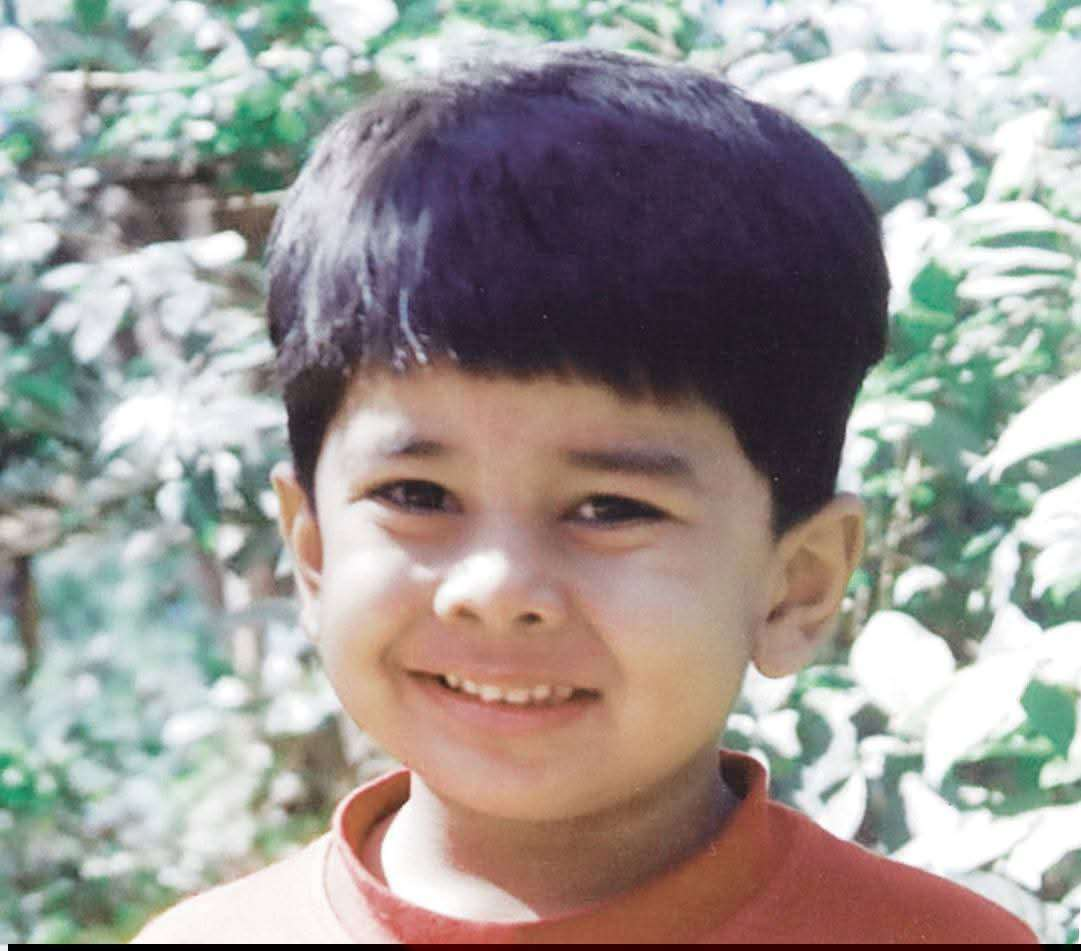
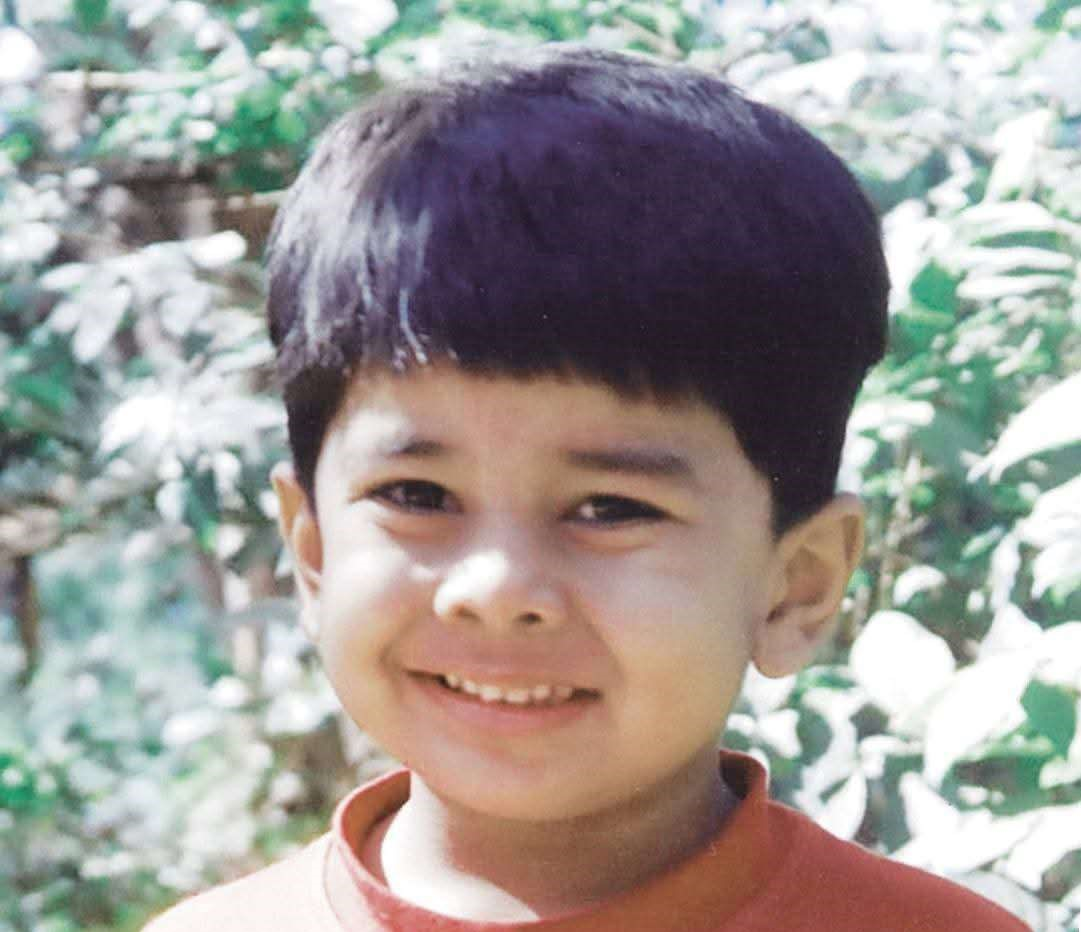
Updated childhood crop and added third About photo

diff --git a/pavitra/about.html b/pavitra/about.html
@@ -29,7 +29,7 @@
       </div>
     </section>
     <section class="about-row reverse" aria-label="From Mumbai to Houston">
-      <img class="about-visual" src="assets/about-childhood.jpg" width="1081" height="951" alt="Pavitra as a child" loading="lazy" decoding="async">
+      <img class="about-visual" src="assets/about-childhood.jpg?v=2" width="1081" height="932" alt="Pavitra as a child" loading="lazy" decoding="async">
       <div class="about-copy">
         <span class="story-icon" aria-hidden="true">✾</span>
         <p>I grew up in Mumbai before moving to the United States in 2023 to pursue my education.</p>
@@ -38,7 +38,7 @@
       </div>
     </section>
     <section class="about-row" aria-label="Creativity and curiosity">
-      <div class="about-visual photo-placeholder" role="img" aria-label="Personal photo placeholder"><span>Your photo</span></div>
+      <img class="about-visual" src="assets/about-third.jpg" width="1172" height="1981" alt="Pavitra standing beside a silver decorated tree" loading="lazy" decoding="async">
       <div class="about-copy">
         <span class="story-icon" aria-hidden="true">✦</span>
         <p>I've always been curious about how technology can transform simple ideas into meaningful experiences.</p>
